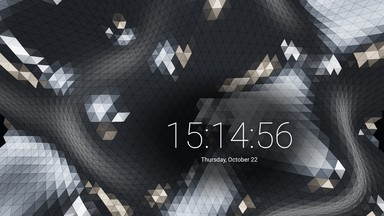
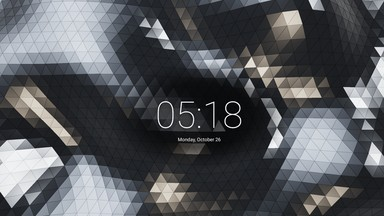
Pin the public Prism clock visibility update and physical preview

diff --git a/tests/test_build.py b/tests/test_build.py
@@ -147,12 +147,12 @@ class BuildChecks(unittest.TestCase):
         entry = next(item for item in entries if item['id'] == 'prism-clock')
         self.assertEqual(entry['package'], 'com.jeremykenedy.prismclock')
         self.assertEqual(entry['dream'], entry['package'] + '/.PrismDreamService')
-        self.assertEqual(entry['tag'], 'v1.0.0')
+        self.assertEqual(entry['tag'], 'v1.1.0')
         self.assertEqual(entry['bytes'], 127947)
         self.assertEqual(entry['sha256'],
[2 lines of base64/hex data omitted]
         self.assertEqual(entry['url'], 'https://github.com/jeremykenedy/prism-clock/releases/'
-                         'download/v1.0.0/prism-clock.apk')
+                         'download/v1.1.0/prism-clock.apk')
         source = json.loads((ROOT / 'app/previews/sources.json').read_text())[
             full_component(entry['dream'])]
         self.assertIn('physical Fire TV', source['capture_note'])
@@ -160,6 +160,12 @@ class BuildChecks(unittest.TestCase):
                          source['source_sha256'])
         preview = ROOT / 'app/previews' / preview_file(entry['dream'])
         self.assertEqual(hashlib.sha256(preview.read_bytes()).hexdigest(), source['preview_sha256'])
+
+        self.assertEqual(source['settings_schema_count'], 12)
+        self.assertEqual(source['clock_visibility'], {'key': 'show_clock', 'type': 'boolean',
+                                                    'default': True, 'randomAllowed': False})
+        self.assertTrue((ROOT / 'app/previews/licenses/prism-clock-NOTICE.txt').is_file())
+        self.assertTrue((ROOT / 'app/previews/licenses/prism-clock-APACHE-2.0.txt').is_file())
 
     def test_pinned_base(self):
         config = json.loads((ROOT / 'build.json').read_text())

diff --git a/docs/screensaver-previews.md b/docs/screensaver-previews.md
@@ -66,7 +66,7 @@ The isolated integration candidate 1.3.0/code 34, SHA-256 e65025fc2199fc3a1107ea
 
 ## Prism Clock published preview
 
-Prism Clock uses the [unretouched physical silver capture](../art/screenshots/prism-clock-fire-tv-silver-1920.png) of v1.0.0 on the Fire TV AFTDEC012E, Android 11/API 30 at 1920x1080. The catalog pins its verified public APK, 127,947 bytes with SHA-256 edbf475c4a2b253ccc069adaee8cac2cbba4d16b5579d5299e2e2d1bdaa21fd5. The 384x216 bundled image is resized from that capture. Its installed settings interface is `content://com.jeremykenedy.prismclock.settings/schema` and `/settings`; the app provides eleven controls, a Settings activity and an explicit Preview activity. Registering it does not change the selected screensaver.
+Prism Clock uses the [unretouched physical clock-On capture](../art/screenshots/prism-clock-clock-visible-fire-tv-api28.png) of public 1.1.0/code 4 on Fire TV AFTALMO/API 28 at 1920x1080. Its verified APK is 127,947 bytes, SHA-256 6d1a3204ca648033c3c0c1d68adcceb29e90ed1ff61ec24b7f65e1326b7621e8. The twelve-row provider retains the original eleven choices and adds Show clock (`show_clock`, boolean/default true/randomAllowed false). Turning it Off hides clock, date and seconds without discarding their choices; randomize-all cannot turn them back on. The renderer remains the original accepted surface, with API 28 default 17-18 presents/s and no GPU-upgrade claim. Native final 4 Preview/controls and preservation are separate from equivalent code 2 natural-idle evidence. The bundled native thumbnail is a plain resize; tagged Apache 2.0 NOTICE and license are included in offline Preview media credits.
 
 ## Cloud Drift Clock 2.0
 
